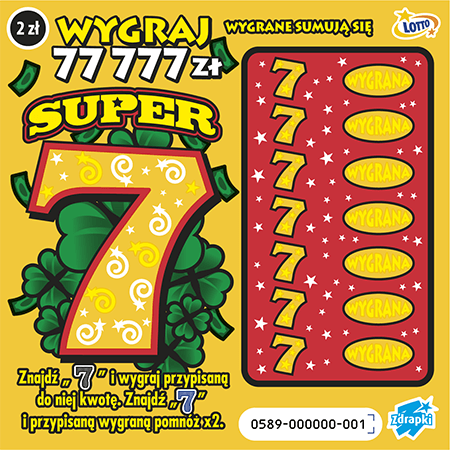
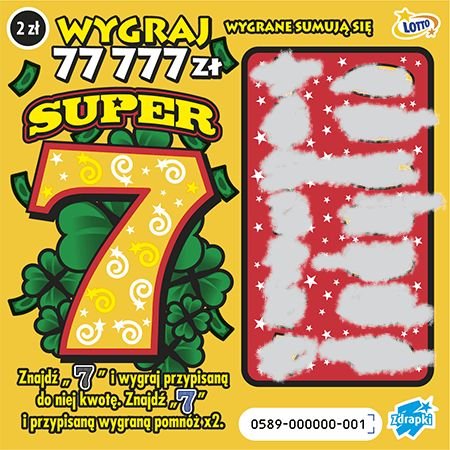
new asset - scratched ; new field - win in scratch command

Changed region(s): [[0.5289, 0.0933, 0.9956, 0.8711]]

diff --git a/src/bot/commands/scratch.rs b/src/bot/commands/scratch.rs
@@ -51,7 +51,7 @@ pub async fn scratch(ctx: Context<'_>) -> Result<(), Error> {
         .timeout(Duration::from_secs(45))
         .await
     {
-        let (buffer, symbols) =
+        let (buffer, symbols, win) =
             generate_scratch_card_in_memory("assets/images/scratch_card_scratched.png")?;
 
         let attachment = CreateAttachment::bytes(buffer, "scratch_card_scratched.png");
@@ -64,9 +64,12 @@ pub async fn scratch(ctx: Context<'_>) -> Result<(), Error> {
                         .add_file(attachment)
                         .embed(
                             CreateEmbed::new()
-                                .title("Zdrap zdrapke! 🎟")
+                                .title(format!(
+                                    "{} Twoja zdrapka!",
+                                    if win > 0 { "😀" } else { "❌" }
+                                ))
                                 .description(format!(
-                                    "Symbole: {}",
+                                    "Symbole: {}\nWygrana: **{win} dolarów**",
                                     symbols.iter().collect::<String>()
                                 ))
                                 .color(0x00FF00)
@@ -81,39 +84,74 @@ pub async fn scratch(ctx: Context<'_>) -> Result<(), Error> {
     Ok(())
 }
 
-fn generate_scratch_card_in_memory(base_path: &str) -> Result<(Vec<u8>, Vec<char>), Error> {
+fn generate_scratch_card_in_memory(base_path: &str) -> Result<(Vec<u8>, Vec<char>, i64), Error> {
     let img = image::open(base_path)?.to_rgba8();
     let mut img_buf: RgbaImage = img.clone();
 
     let font = FontArc::try_from_vec(std::fs::read("assets/fonts/zdrapka.ttf")?)?;
-    let scale = PxScale::from(30.0);
+    let symbol_scale = PxScale::from(35.0);
+    let cash_scale = PxScale::from(30.0);
 
-    // POSITIONS
-    // the image is 450px x 450px
     let positions = vec![
-        (375, 65),
-        (150, 50),
-        (250, 50),
-        (50, 150),
-        (150, 150),
-        (250, 150),
+        (280, 65),
+        (280, 110),
+        (280, 160),
+        (280, 200),
+        (280, 250),
+        (280, 300),
+        (280, 345),
     ];
 
-    let symbols_weights = vec![('L', 0.4), ('M', 0.3), ('G', 0.25), ('7', 0.05)];
+    let symbols_weights = vec![
+        ('0', 0.1),
+        ('1', 0.1),
+        ('2', 0.1),
+        ('3', 0.1),
+        ('4', 0.1),
+        ('5', 0.1),
+        ('6', 0.1),
+        ('7', 0.1),
+        ('8', 0.1),
+        ('9', 0.1),
+    ];
 
     let mut symbols = Vec::new();
+    let mut total_prize: i64 = 0;
     let mut rng = rand::rng();
+
     for &(x, y) in &positions {
         let symbol = random_weighted_symbol(&symbols_weights, &mut rng);
         symbols.push(symbol);
+
+        let field_cash: i64 = rng.random_range(3..=16);
+
+        if symbol == '7' {
+            total_prize += field_cash;
+        }
+
         draw_text_mut(
             &mut img_buf,
-            Rgba([0, 0, 0, 255]),
+            if symbol == '7' {
+                Rgba([255, 0, 0, 255])
+            } else {
+                Rgba([0, 0, 0, 255])
+            },
             x,
             y,
-            scale,
+            symbol_scale,
             &font,
             &symbol.to_string(),
+        );
+
+        let cash_text = format!("{}zl", field_cash);
+        draw_text_mut(
+            &mut img_buf,
+            Rgba([100, 100, 100, 255]),
+            375,
+            y,
+            cash_scale,
+            &font,
+            &cash_text,
         );
     }
 
@@ -121,7 +159,7 @@ fn generate_scratch_card_in_memory(base_path: &str) -> Result<(Vec<u8>, Vec<char
     DynamicImage::ImageRgba8(img_buf)
         .write_to(&mut Cursor::new(&mut buffer), image::ImageFormat::Png)?;
 
-    Ok((buffer, symbols))
+    Ok((buffer, symbols, total_prize))
 }
 
 fn random_weighted_symbol(symbols: &Vec<(char, f64)>, rng: &mut impl Rng) -> char {
